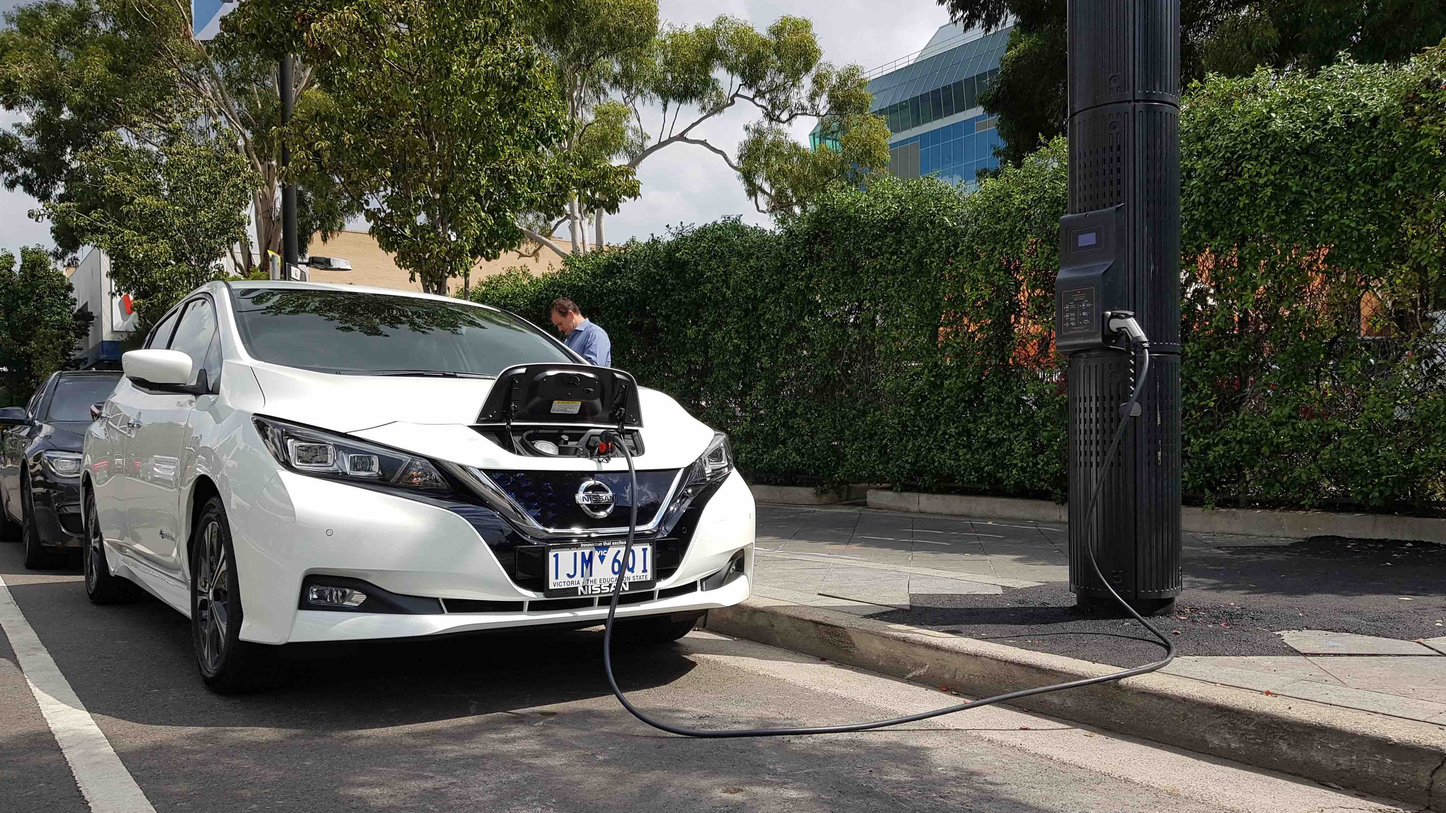
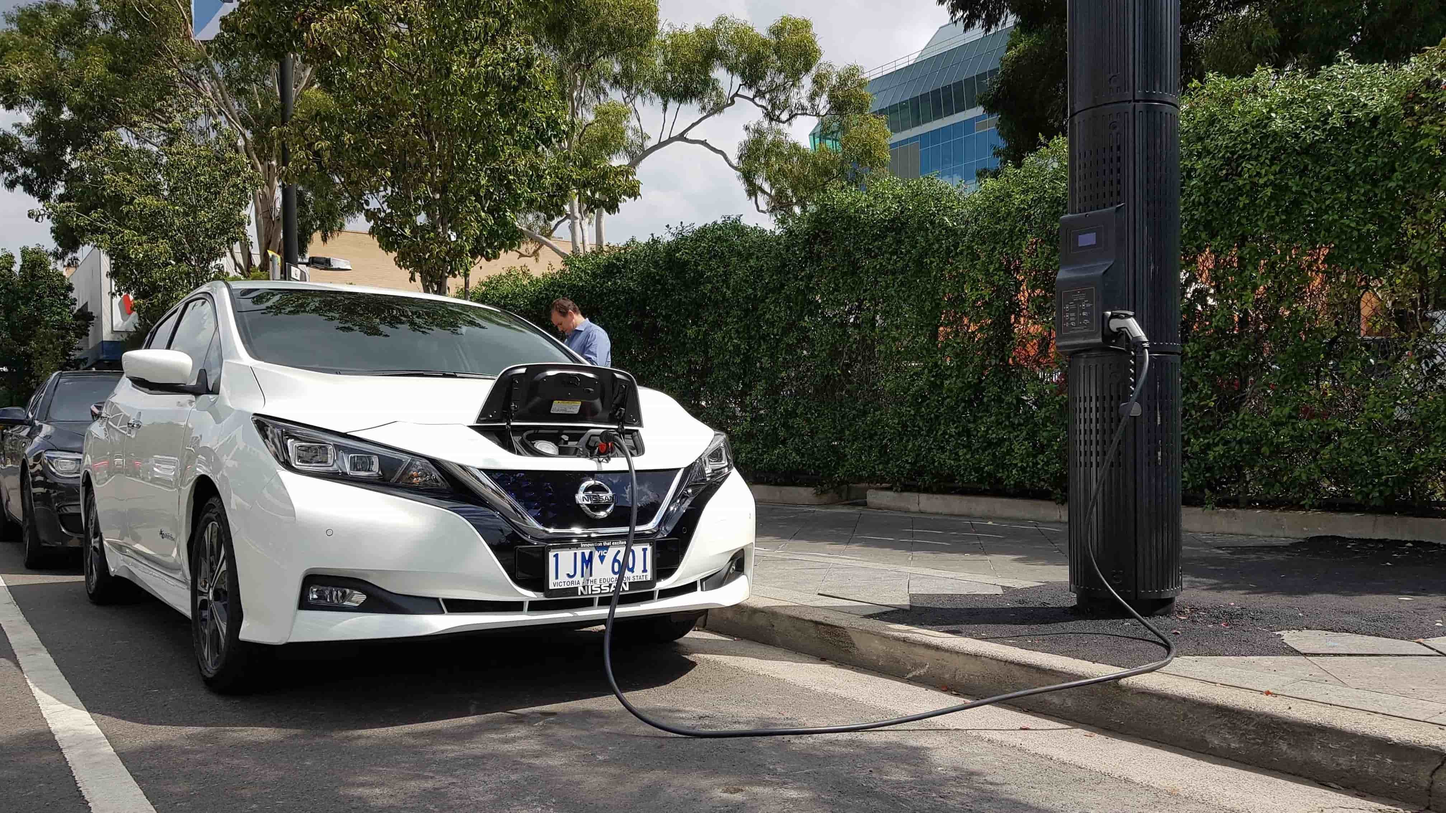
images made smaller, HOME nav tab added

diff --git a/src/components/Navbar.js b/src/components/Navbar.js
@@ -16,21 +16,18 @@ function Navbar () {
   function navigateToEVcalc () {
     history.push('/evcalculator');
   }
-  function navigateToInstall () {
-    history.push('/chargeportinstall');
-  }
   function navigateToForum () {
     history.push('/forum');
   }
 
   return (
     <div className='navbar'>
-      <img src={logo} className='logo' alt='market-place-logo' onClick={navigateToHome} />
+      <img src={logo} className='logo' alt='market-place-logo' />
       <div className='buttons'>
-        <Button className='about button' textContent='Rólunk' onClick={navigateToAboutUS} />
-        <Button className='calc button' textContent='EV kalkulátor' onClick={navigateToEVcalc} />
-        <Button className='forum button' textContent='Fórum' onClick={navigateToForum} />
-        <Button className='install button' textContent='Töltőtelepítés' onClick={navigateToInstall} />
+        <Button className='button' textContent='Főoldal' onClick={navigateToHome} />
+        <Button className='button' textContent='Rólunk' onClick={navigateToAboutUS} />
+        <Button className='button' textContent='EV kalkulátor' onClick={navigateToEVcalc} />
+        <Button className='button' textContent='Fórum' onClick={navigateToForum} />
       </div>
     </div>
   );

diff --git a/src/App.js b/src/App.js
@@ -5,7 +5,7 @@ import Navbar from './components/Navbar';
 import Main from './pages/Main';
 import AboutUs from './pages/AboutUs';
 import EVcalc from './pages/EVcalc';
-import ChargePortInstall from './pages/ChargePortInstall';
+// import ChargePortInstall from './pages/ChargePortInstall';
 import Forum from './pages/Forum';
 import Footer from './components/Footer';
 
@@ -17,7 +17,7 @@ function App () {
         <Route exact path='/' component={Main} />
         <Route path='/aboutus' exact component={AboutUs} />
         <Route path='/evcalculator' exact component={EVcalc} />
-        <Route path='/chargeportinstall' exact component={ChargePortInstall} />
+        {/* <Route path='/chargeportinstall' exact component={ChargePortInstall} /> */}
         <Route path='/forum' exact component={Forum} />
         <Footer />
       </div>

diff --git a/src/components/Gallery.js b/src/components/Gallery.js
@@ -20,7 +20,7 @@ const images = [
     description: '50kW DC'
   },
   {
-    original: require('../img/bigpic5.png'),
+    original: require('../img/bigpic5.jpg'),
     description: '50kW DC'
   }
 ];

diff --git a/src/components/Navbar.css b/src/components/Navbar.css
@@ -47,7 +47,3 @@
     transition: 0.2s;
     cursor: pointer;
 }
-
-.logo:hover {
-    cursor: pointer;
-}
